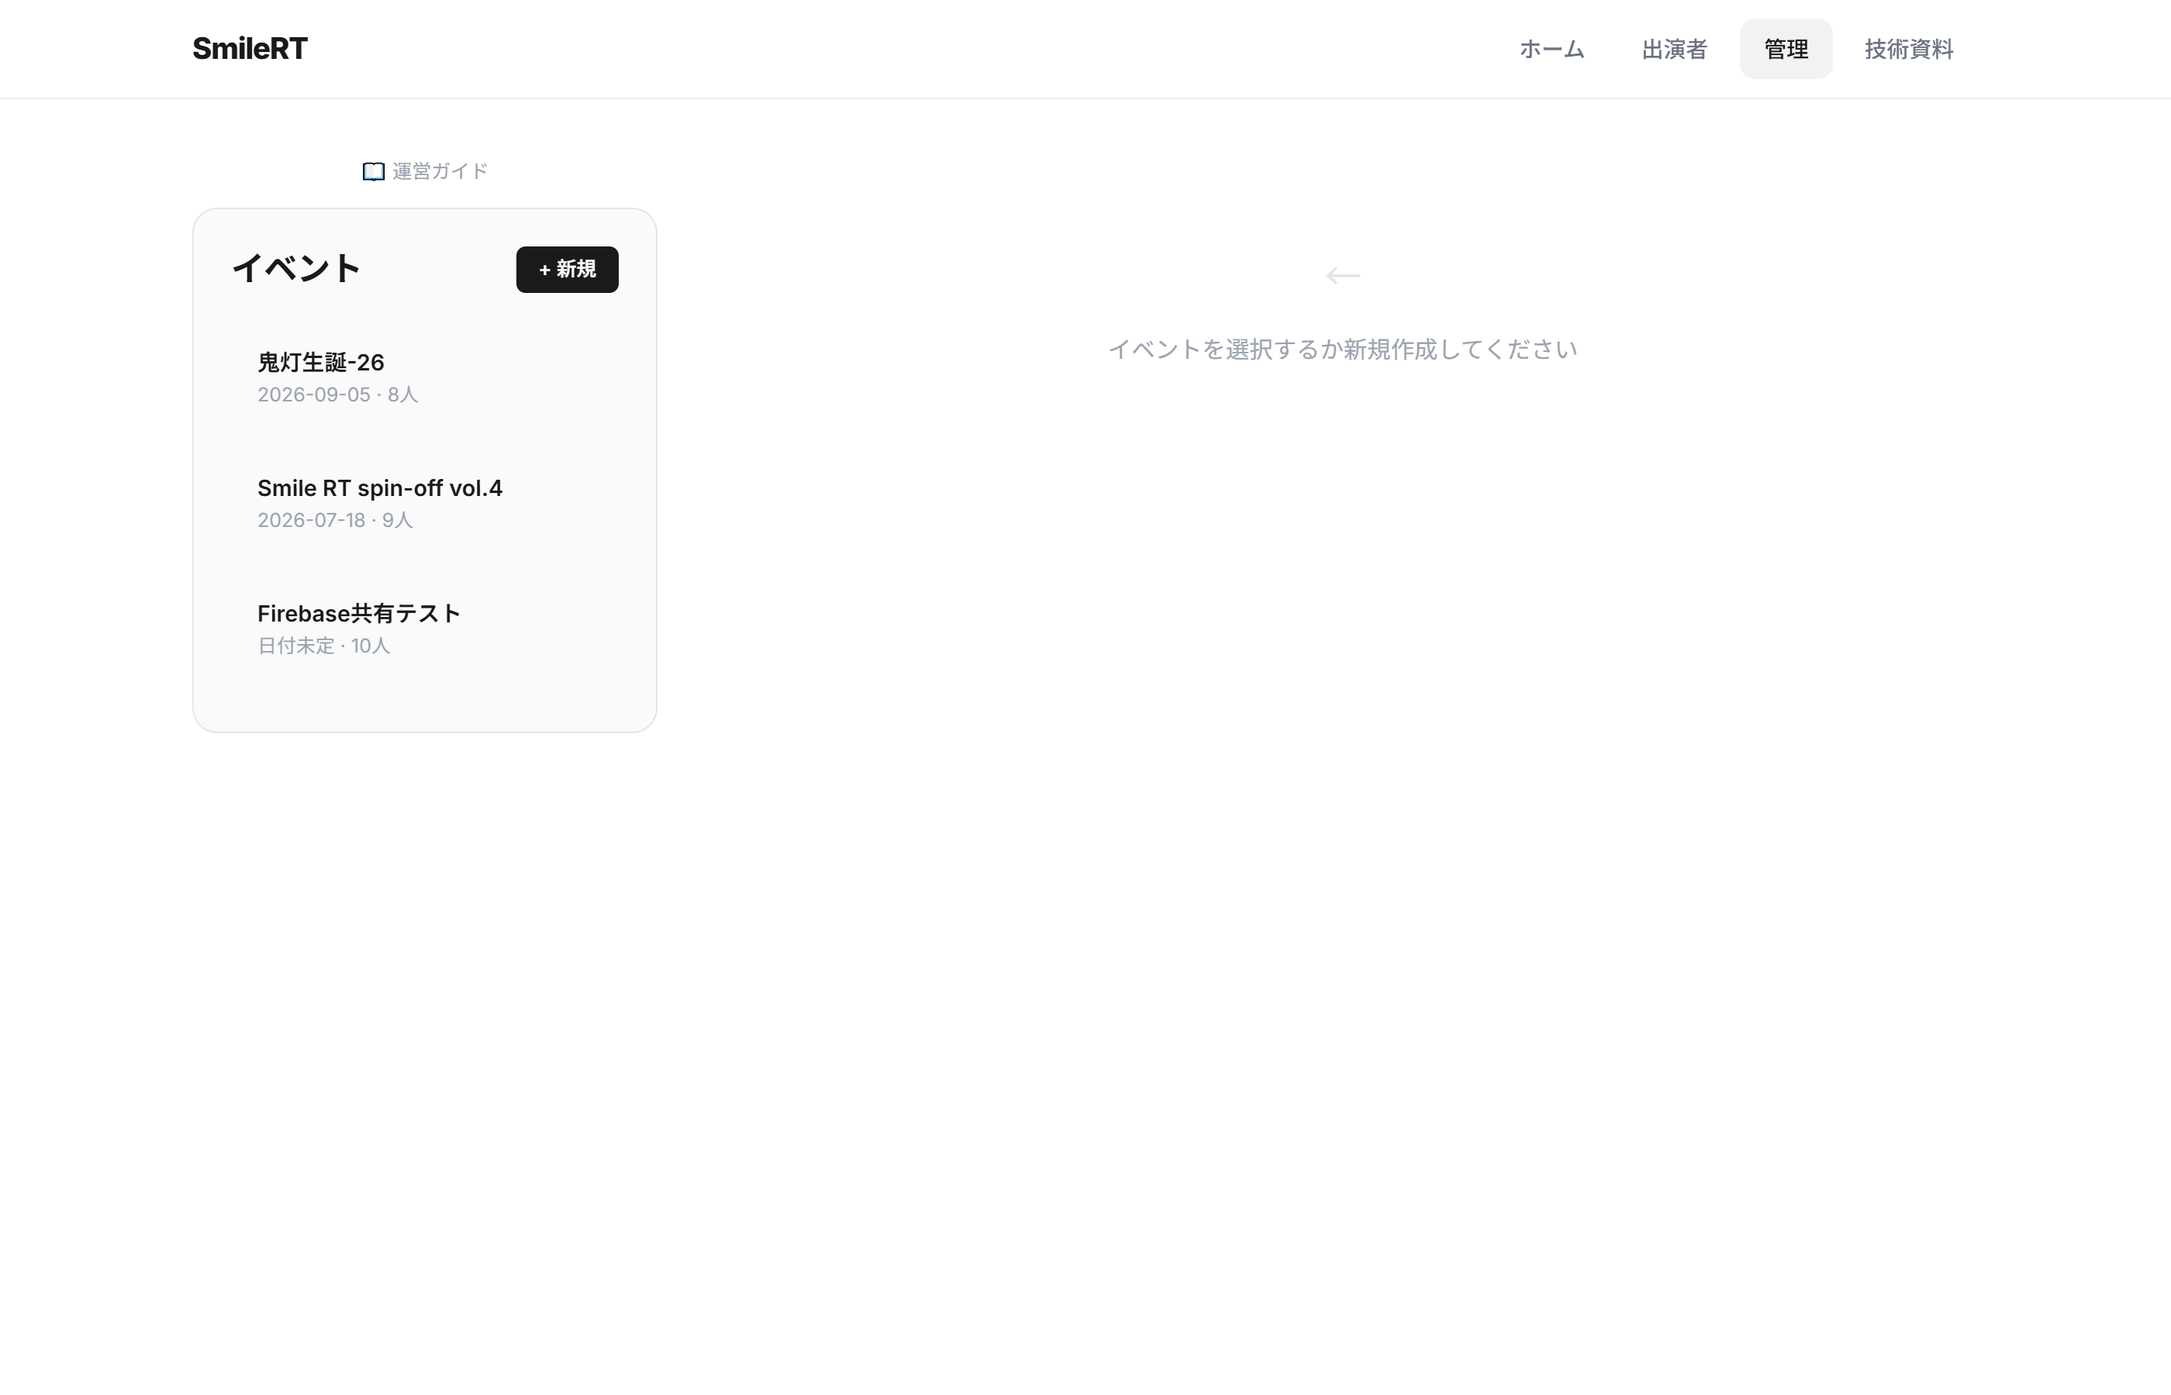
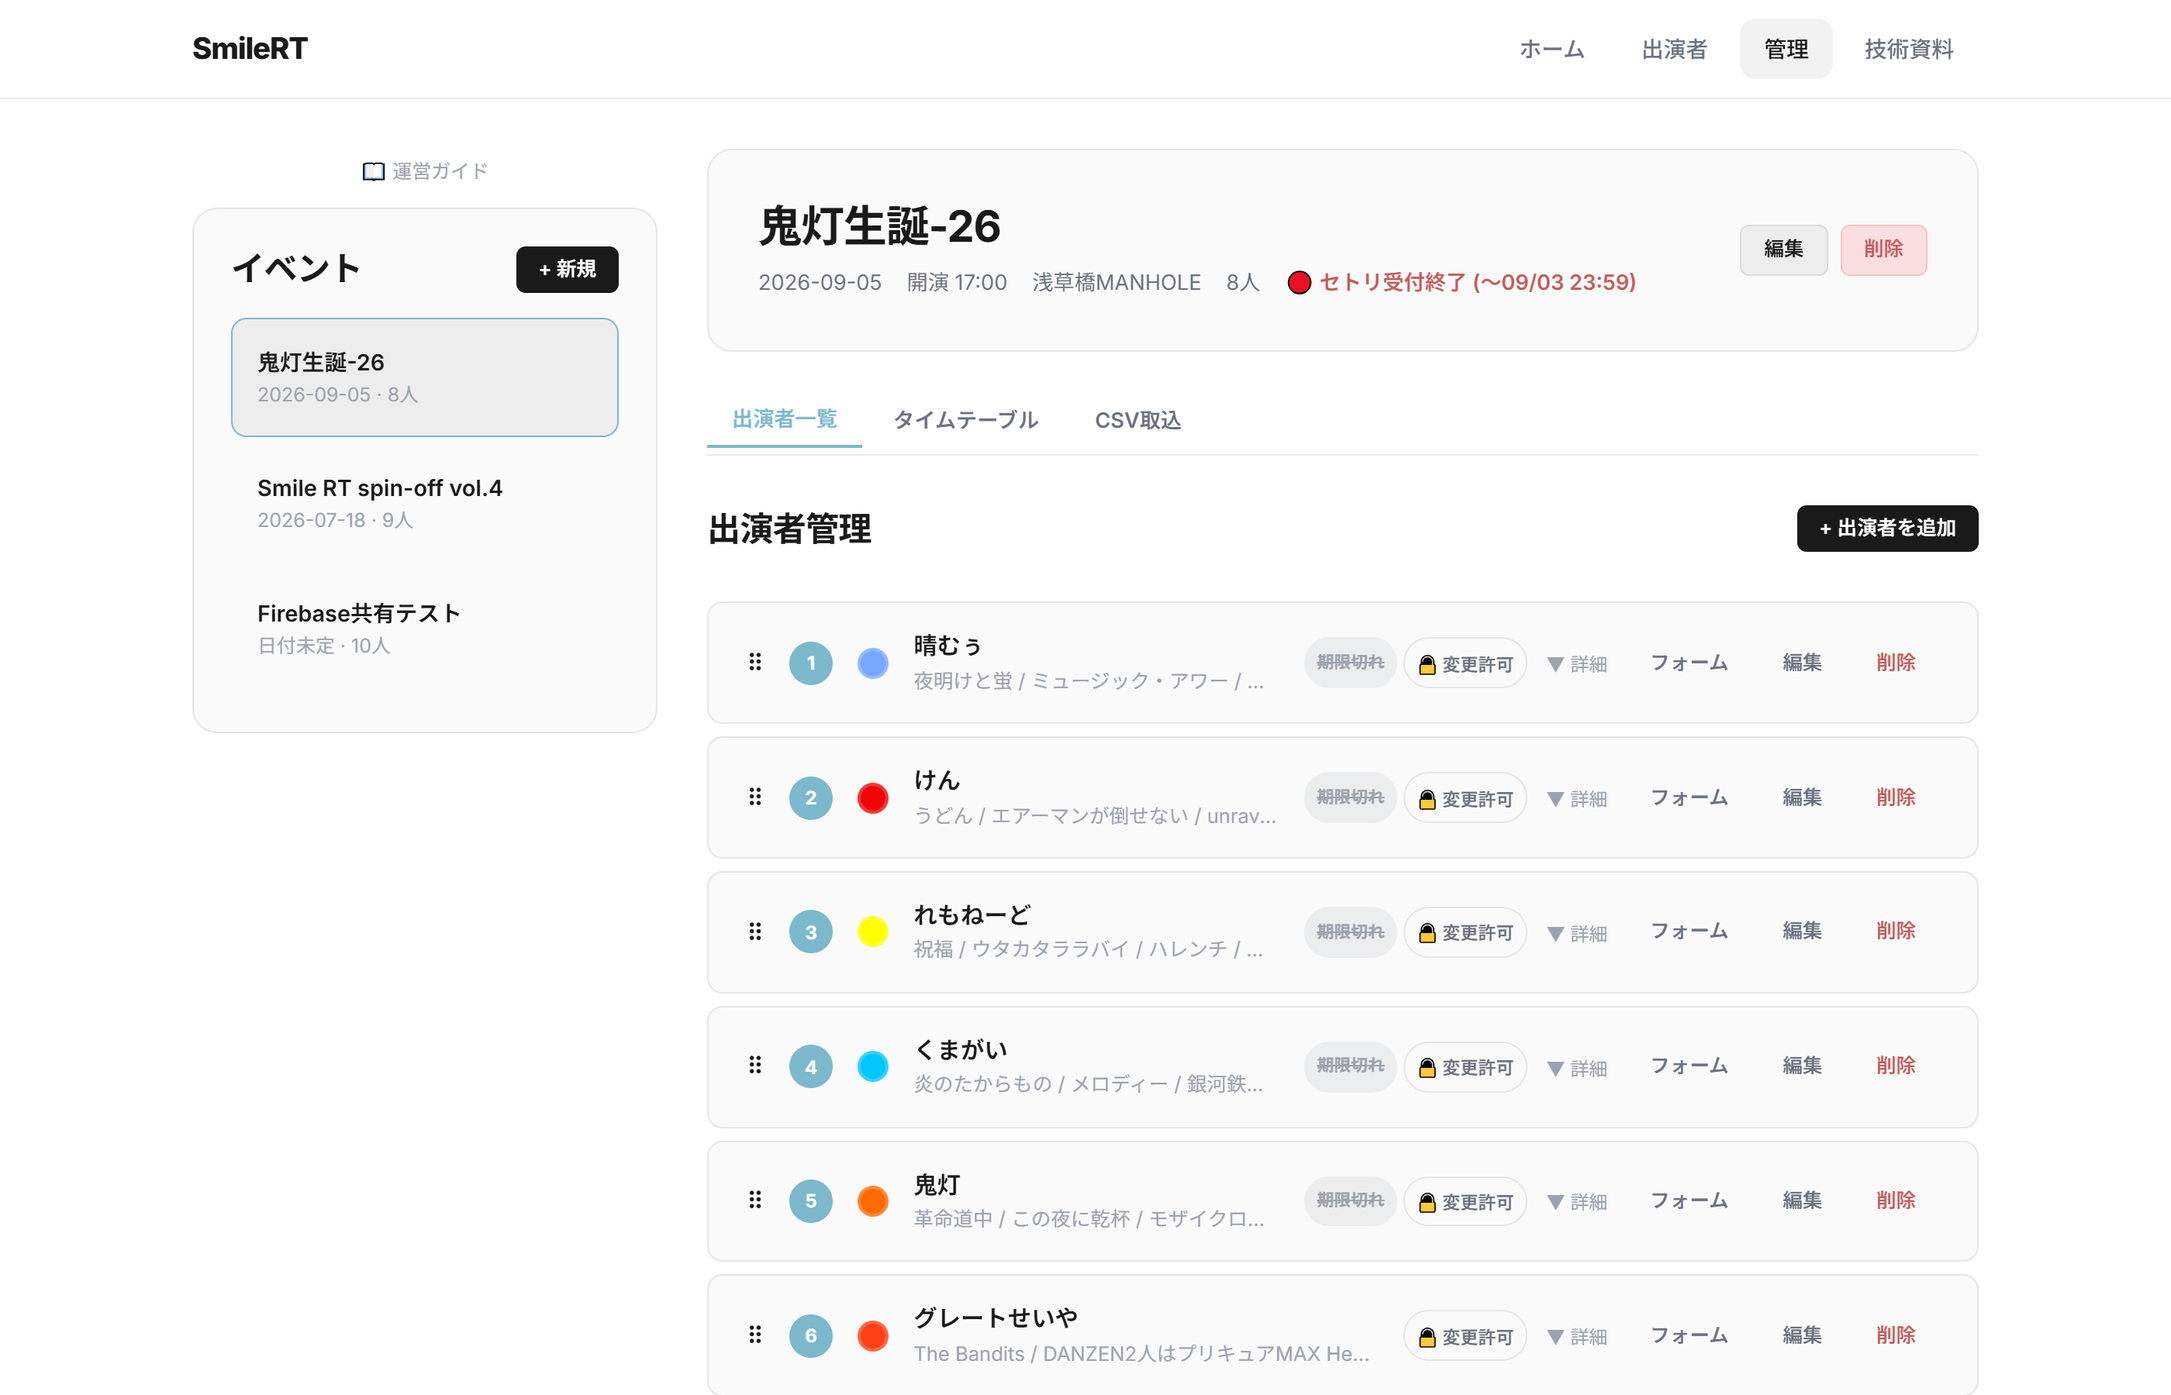
1

diff --git a/take-screenshots2.js b/take-screenshots2.js
@@ -1,0 +1,283 @@
+const puppeteer = require('puppeteer');
+const path = require('path');
+
+const GUIDE = path.join(__dirname, 'guide');
+const BASE = 'http://127.0.0.1:8765';
+
+async function sleep(ms) { return new Promise(r => setTimeout(r, ms)); }
+
+async function ss(page, name, opts = {}) {
+  const fp = path.join(GUIDE, name);
+  await page.screenshot({ path: fp, fullPage: opts.fullPage || false, type: 'png' });
+  console.log(`  ✓ ${name}`);
+}
+
+(async () => {
+  const browser = await puppeteer.launch({ headless: true, args: ['--no-sandbox'] });
+
+  // ===== 出演者ポータル — Step2 + input.html =====
+  console.log('\n=== 出演者ポータル Step2 + input ===');
+  const p1 = await browser.newPage();
+  await p1.setViewport({ width: 430, height: 932, deviceScaleFactor: 2 }); // スマホ幅
+  await p1.goto(BASE + '/performer.html', { waitUntil: 'networkidle2', timeout: 30000 });
+  await sleep(3000);
+
+  // Click event even if closed (for screenshot purposes)
+  try {
+    const evCards = await p1.$$('.event-card');
+    if (evCards.length > 0) {
+      // Force click by evaluating JS directly
+      await p1.evaluate(() => {
+        // Find first event card and simulate click
+        const cards = document.querySelectorAll('.event-card');
+        if (cards.length > 0) {
+          // Try triggering the click handler directly
+          cards[0].click();
+        }
+      });
+      await sleep(2000);
+      
+      // Check if step2 is visible
+      const step2Visible = await p1.evaluate(() => {
+        const s2 = document.getElementById('step2');
+        return s2 && s2.style.display !== 'none';
+      });
+      
+      if (step2Visible) {
+        await ss(p1, 'new_step2.png', { fullPage: true });
+      } else {
+        console.log('  ! Step2 not visible, trying direct navigation');
+      }
+    }
+  } catch(e) { console.log('  ! step2 error:', e.message); }
+
+  // Navigate to input.html directly with query params
+  try {
+    // Get first event ID from Firebase
+    const eventId = await p1.evaluate(() => {
+      const sel = document.querySelector('#eventSelect, select');
+      if (sel && sel.options.length > 1) return sel.options[1].value;
+      // Try to get from event cards
+      const cards = document.querySelectorAll('.event-card');
+      if (cards.length > 0) {
+        const onclick = cards[0].getAttribute('onclick') || '';
+        const match = onclick.match(/'([^']+)'/);
+        if (match) return match[1];
+      }
+      return null;
+    });
+    console.log('  Event ID:', eventId);
+    
+    // Try navigating to input page for first event's first performer
+    await p1.goto(BASE + '/input.html' + (eventId ? '?event=' + eventId : ''), { waitUntil: 'networkidle2', timeout: 30000 });
+    await sleep(4000);
+    
+    // Profile section
+    await p1.setViewport({ width: 430, height: 932, deviceScaleFactor: 2 });
+    await ss(p1, 'new_step3_profile.png');
+    
+    // Scroll to setlist
+    await p1.evaluate(() => {
+      const headings = document.querySelectorAll('h2, h3, .section-title, [class*="setlist"], [class*="song"]');
+      for (const h of headings) {
+        if (h.textContent && (h.textContent.includes('セットリスト') || h.textContent.includes('セトリ') || h.textContent.includes('曲'))) {
+          h.scrollIntoView({ block: 'start' });
+          return;
+        }
+      }
+      // Fallback: scroll to middle
+      window.scrollTo(0, window.innerHeight * 1.5);
+    });
+    await sleep(500);
+    await ss(p1, 'new_step3_setlist.png');
+    
+    // Scroll to tech request / photo / save
+    await p1.evaluate(() => {
+      const headings = document.querySelectorAll('h2, h3, .section-title, .card, [class*="tech"], [class*="photo"]');
+      for (const h of headings) {
+        if (h.textContent && (h.textContent.includes('技術') || h.textContent.includes('リクエスト') || h.textContent.includes('写真'))) {
+          h.scrollIntoView({ block: 'start' });
+          return;
+        }
+      }
+      // Fallback: scroll to bottom
+      window.scrollTo(0, document.body.scrollHeight - window.innerHeight);
+    });
+    await sleep(500);
+    await ss(p1, 'new_step3_extras.png');
+  } catch(e) { console.log('  ! input error:', e.message); }
+  await p1.close();
+
+  // ===== 管理画面 — performers, timetable, override =====
+  console.log('\n=== 管理画面 ===');
+  const p2 = await browser.newPage();
+  await p2.setViewport({ width: 1400, height: 900, deviceScaleFactor: 2 });
+  await p2.goto(BASE + '/admin.html', { waitUntil: 'networkidle2', timeout: 30000 });
+  await sleep(2000);
+
+  // Auth
+  try {
+    // Type PIN
+    await p2.evaluate(() => {
+      const inputs = document.querySelectorAll('input[type="password"], input[type="tel"], input[type="number"], #authPin');
+      for (const inp of inputs) {
+        inp.value = '2525';
+        inp.dispatchEvent(new Event('input', { bubbles: true }));
+      }
+    });
+    await sleep(500);
+    // Click auth button
+    await p2.evaluate(() => {
+      const btns = document.querySelectorAll('button');
+      for (const b of btns) {
+        if (b.textContent.includes('ログイン') || b.textContent.includes('認証') || b.id === 'authBtn') {
+          b.click();
+          return;
+        }
+      }
+      // Try onclick
+      const authBtn = document.getElementById('authBtn');
+      if (authBtn) authBtn.click();
+    });
+    await sleep(3000);
+  } catch(e) { console.log('  ! auth error:', e.message); }
+
+  // Click event to see performers
+  try {
+    await p2.evaluate(() => {
+      const items = document.querySelectorAll('.event-item, [onclick*="selectEvent"]');
+      for (const item of items) {
+        const text = item.textContent || '';
+        if (text.includes('鬼灯') || text.includes('spin-off')) {
+          item.click();
+          return;
+        }
+      }
+      if (items.length > 0) items[0].click();
+    });
+    await sleep(3000);
+    await ss(p2, 'new_admin_performers.png');
+
+    // Click timetable tab
+    await p2.evaluate(() => {
+      const btns = document.querySelectorAll('[data-tab], .tab-btn, button, [role="tab"]');
+      for (const b of btns) {
+        if (b.textContent && b.textContent.includes('タイムテーブル')) {
+          b.click();
+          return;
+        }
+      }
+    });
+    await sleep(3000);
+    await ss(p2, 'new_admin_timetable.png');
+
+    // Go back to performers for override
+    await p2.evaluate(() => {
+      const btns = document.querySelectorAll('[data-tab], .tab-btn, button, [role="tab"]');
+      for (const b of btns) {
+        if (b.textContent && b.textContent.includes('出演者')) {
+          b.click();
+          return;
+        }
+      }
+    });
+    await sleep(2000);
+    
+    // Click override button
+    await p2.evaluate(() => {
+      const btns = document.querySelectorAll('button');
+      for (const b of btns) {
+        if (b.textContent && b.textContent.includes('変更許可')) {
+          b.click();
+          return;
+        }
+      }
+    });
+    await sleep(1500);
+    await ss(p2, 'new_admin_override.png');
+  } catch(e) { console.log('  ! admin detail error:', e.message); }
+  await p2.close();
+
+  // ===== 技術資料 — リハ時間 & 列フィルター =====
+  console.log('\n=== 技術資料 リハ+列フィルター ===');
+  const p3 = await browser.newPage();
+  await p3.setViewport({ width: 1400, height: 900, deviceScaleFactor: 2 });
+  await p3.goto(BASE + '/view.html', { waitUntil: 'networkidle2', timeout: 30000 });
+  await sleep(2000);
+
+  try {
+    // Select event
+    await p3.evaluate(() => {
+      const sel = document.getElementById('eventSelect');
+      if (sel && sel.options.length > 1) {
+        sel.value = sel.options[1].value;
+        sel.dispatchEvent(new Event('change'));
+        if (typeof onEventSelect === 'function') onEventSelect(sel.value);
+      }
+    });
+    await sleep(4000);
+
+    // Scroll to timetable header area
+    await p3.evaluate(() => {
+      const el = document.getElementById('timetableSection');
+      if (el) el.scrollIntoView({ block: 'start' });
+    });
+    await sleep(500);
+
+    // Click rehearsal toggle
+    const rehaClicked = await p3.evaluate(() => {
+      const btns = document.querySelectorAll('button, label, .toggle, [class*="toggle"], input[type="checkbox"]');
+      for (const b of btns) {
+        const text = (b.textContent || '') + (b.getAttribute('aria-label') || '');
+        if (text.includes('リハ')) {
+          b.click();
+          return true;
+        }
+      }
+      // Try toggle switch
+      const toggles = document.querySelectorAll('.toggle-switch, .switch, input[type="checkbox"]');
+      for (const t of toggles) {
+        const parent = t.closest('label, div');
+        if (parent && parent.textContent.includes('リハ')) {
+          t.click();
+          return true;
+        }
+      }
+      return false;
+    });
+    console.log('  Rehearsal toggle clicked:', rehaClicked);
+    await sleep(1500);
+    await ss(p3, 'new_tech_rehearsal.png');
+
+    // Turn off rehearsal toggle
+    if (rehaClicked) {
+      await p3.evaluate(() => {
+        const btns = document.querySelectorAll('button, label, .toggle, [class*="toggle"], input[type="checkbox"]');
+        for (const b of btns) {
+          const text = (b.textContent || '') + (b.getAttribute('aria-label') || '');
+          if (text.includes('リハ')) { b.click(); return; }
+        }
+      });
+      await sleep(500);
+    }
+
+    // Click column filter
+    const colClicked = await p3.evaluate(() => {
+      const btns = document.querySelectorAll('button');
+      for (const b of btns) {
+        if (b.textContent && b.textContent.includes('表示列')) {
+          b.click();
+          return true;
+        }
+      }
+      return false;
+    });
+    console.log('  Column filter clicked:', colClicked);
+    await sleep(1500);
+    await ss(p3, 'new_tech_colfilter.png');
+  } catch(e) { console.log('  ! view error:', e.message); }
+  await p3.close();
+
+  await browser.close();
+  console.log('\n=== 不足分撮影完了 ===');
+})();

diff --git a/take-step2.js b/take-step2.js
@@ -1,0 +1,66 @@
+const puppeteer = require('puppeteer');
+const path = require('path');
+const GUIDE = path.join(__dirname, 'guide');
+const BASE = 'http://127.0.0.1:8765';
+async function sleep(ms) { return new Promise(r => setTimeout(r, ms)); }
+
+(async () => {
+  const browser = await puppeteer.launch({ headless: true, args: ['--no-sandbox'] });
+  const p = await browser.newPage();
+  await p.setViewport({ width: 430, height: 932, deviceScaleFactor: 2 });
+  await p.goto(BASE + '/performer.html', { waitUntil: 'networkidle2', timeout: 30000 });
+  await sleep(3000);
+
+  // Force show step2 by manipulating DOM
+  await p.evaluate(() => {
+    const step1 = document.getElementById('step1');
+    const step2 = document.getElementById('step2');
+    if (step1) step1.style.display = 'none';
+    if (step2) {
+      step2.style.display = '';
+      // Update selected event name
+      const evName = document.getElementById('selectedEventName');
+      if (evName) evName.textContent = '鬼灯生誕-26';
+    }
+    // Update step dots
+    const dot1 = document.getElementById('stepDot1');
+    const dot2 = document.getElementById('stepDot2');
+    const line1 = document.getElementById('stepLine1');
+    if (dot1) dot1.classList.remove('active');
+    if (dot2) dot2.classList.add('active');
+    if (line1) line1.classList.add('done');
+
+    // Add mock performers to the list
+    const list = document.getElementById('performerPickList');
+    if (list) {
+      list.innerHTML = `
+        <div class="performer-pick" style="padding:1rem;border:1px solid #e5e7eb;border-radius:12px;margin-bottom:0.8rem;cursor:pointer;display:flex;align-items:center;gap:0.8rem;background:var(--bg-card, #fff)">
+          <span style="width:12px;height:12px;border-radius:50%;background:#6899be;flex-shrink:0"></span>
+          <div style="flex:1"><strong>晴むぅ</strong><div style="font-size:0.82rem;color:#6b7280">夜明けと蛍 / ミュージック・アワー / 少年時代 / それが大事</div></div>
+        </div>
+        <div class="performer-pick" style="padding:1rem;border:1px solid #e5e7eb;border-radius:12px;margin-bottom:0.8rem;cursor:pointer;display:flex;align-items:center;gap:0.8rem;background:var(--bg-card, #fff)">
+          <span style="width:12px;height:12px;border-radius:50%;background:#ff3b30;flex-shrink:0"></span>
+          <div style="flex:1"><strong>けん</strong><div style="font-size:0.82rem;color:#6b7280">うどん / エアーマンが倒せない / unravel / カミサマネジマキ</div></div>
+        </div>
+        <div class="performer-pick" style="padding:1rem;border:1px solid #e5e7eb;border-radius:12px;margin-bottom:0.8rem;cursor:pointer;display:flex;align-items:center;gap:0.8rem;background:var(--bg-card, #fff)">
+          <span style="width:12px;height:12px;border-radius:50%;background:#ffd60a;flex-shrink:0"></span>
+          <div style="flex:1"><strong>れもねーど</strong><div style="font-size:0.82rem;color:#6b7280">祝福 / ウタカタララバイ / ハレンチ / ...</div></div>
+        </div>
+        <div class="performer-pick" style="padding:1rem;border:1px solid #e5e7eb;border-radius:12px;margin-bottom:0.8rem;cursor:pointer;display:flex;align-items:center;gap:0.8rem;background:var(--bg-card, #fff)">
+          <span style="width:12px;height:12px;border-radius:50%;background:#30d5c8;flex-shrink:0"></span>
+          <div style="flex:1"><strong>くまがい</strong><div style="font-size:0.82rem;color:#6b7280">炎のたからもの / メロディー / 銀河鉄道999</div></div>
+        </div>
+        <div class="performer-pick" style="padding:1rem;border:1px solid #e5e7eb;border-radius:12px;margin-bottom:0.8rem;cursor:pointer;display:flex;align-items:center;gap:0.8rem;background:var(--bg-card, #fff)">
+          <span style="width:12px;height:12px;border-radius:50%;background:#ff9500;flex-shrink:0"></span>
+          <div style="flex:1"><strong>鬼灯</strong><div style="font-size:0.82rem;color:#6b7280">革命道中 / この夜に乾杯 / モザイクロール / ...</div></div>
+        </div>
+      `;
+    }
+  });
+  await sleep(500);
+  await p.screenshot({ path: path.join(GUIDE, 'new_step2.png'), fullPage: true, type: 'png' });
+  console.log('  ✓ new_step2.png');
+
+  await browser.close();
+  console.log('=== Step2撮影完了 ===');
+})();

diff --git a/take-setlist.js b/take-setlist.js
@@ -1,0 +1,33 @@
+const puppeteer = require('puppeteer');
+const path = require('path');
+const GUIDE = path.join(__dirname, 'guide');
+const BASE = 'http://127.0.0.1:8765';
+async function sleep(ms) { return new Promise(r => setTimeout(r, ms)); }
+
+(async () => {
+  const browser = await puppeteer.launch({ headless: true, args: ['--no-sandbox'] });
+  const p = await browser.newPage();
+  await p.setViewport({ width: 430, height: 932, deviceScaleFactor: 2 });
+  await p.goto(BASE + '/input.html', { waitUntil: 'networkidle2', timeout: 30000 });
+  await sleep(4000);
+
+  // Scroll to show the song card content (past profile section)
+  // Profile section is about 1000px tall, then "セットリスト" heading, then song cards
+  await p.evaluate(() => {
+    // Find the song number badge "1曲目" element
+    const songNum = document.querySelector('.song-number');
+    if (songNum) {
+      songNum.scrollIntoView({ block: 'start' });
+      window.scrollBy(0, -30);
+      return;
+    }
+    // Fallback: scroll by pixel amount
+    window.scrollTo(0, 1100);
+  });
+  await sleep(500);
+  await p.screenshot({ path: path.join(GUIDE, 'new_step3_setlist.png'), type: 'png' });
+  console.log('  ✓ new_step3_setlist.png');
+
+  await browser.close();
+  console.log('=== done ===');
+})();
